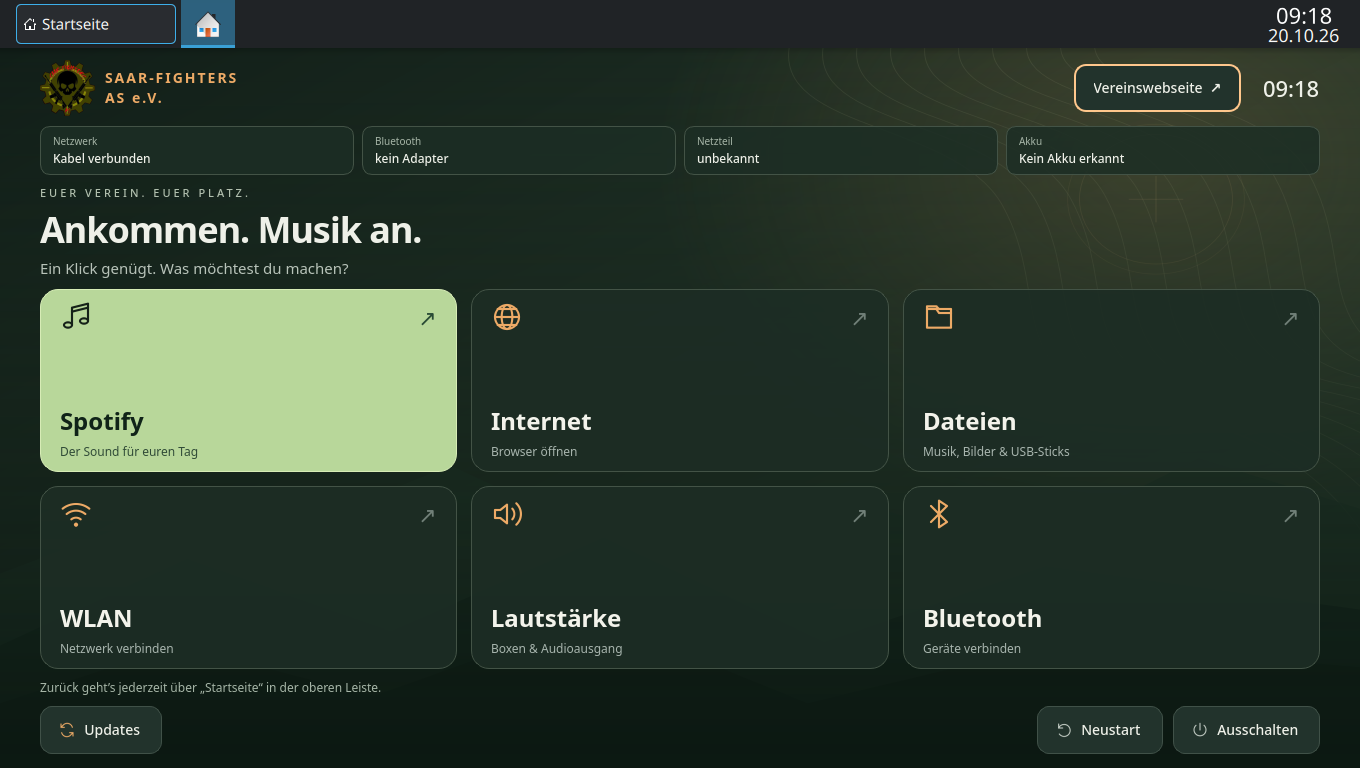
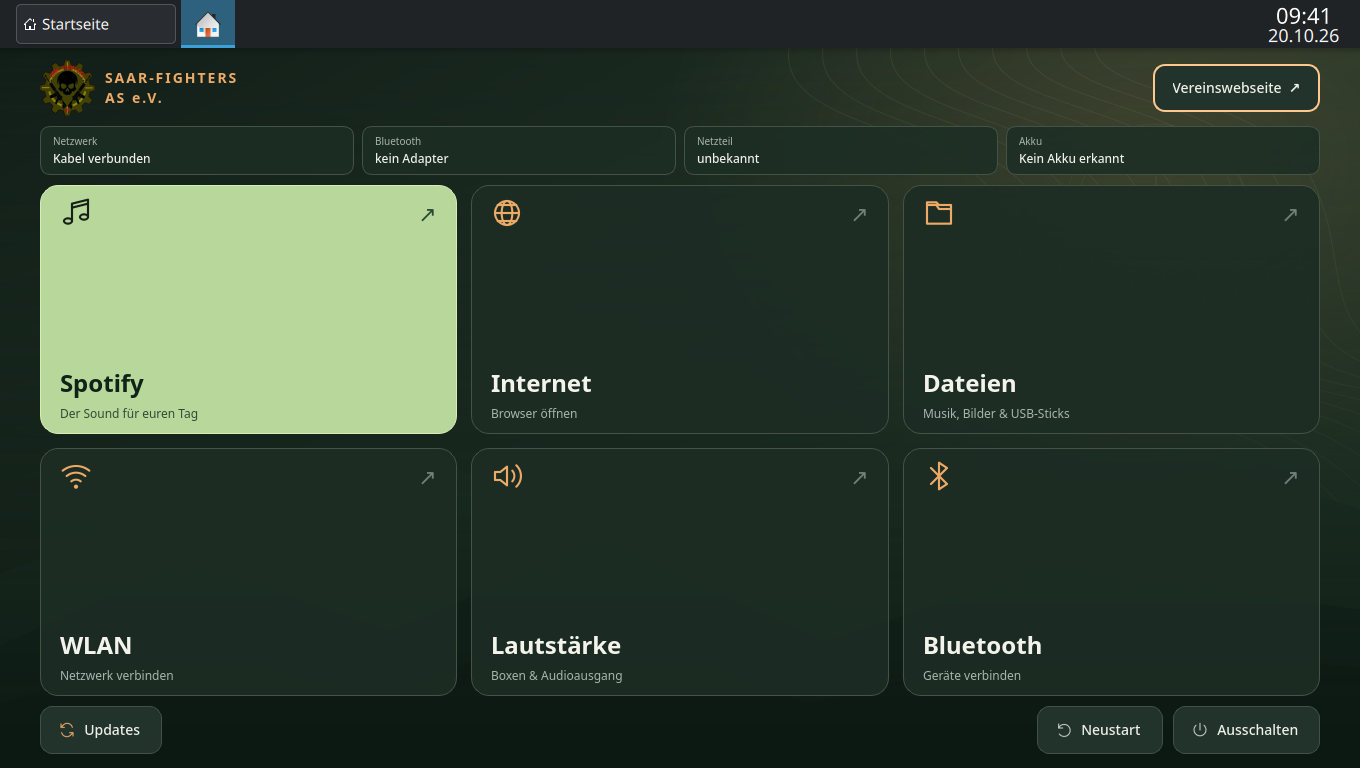
Simplify home screen by removing slogans, navigation hint and duplicate clock

diff --git a/app/main.py b/app/main.py
@@ -6,7 +6,7 @@ from pathlib import Path
 import shutil
 import sys
 
-from PySide6.QtCore import QDateTime, QLibraryInfo, QLocale, QProcess, QTranslator, Qt, QTimer, QSize, QRectF
+from PySide6.QtCore import QLibraryInfo, QLocale, QProcess, QTranslator, Qt, QTimer, QSize, QRectF
 from PySide6.QtGui import QIcon, QPainter, QPixmap
 from PySide6.QtNetwork import QLocalServer, QLocalSocket
 from PySide6.QtSvg import QSvgRenderer
@@ -191,10 +191,6 @@ class Home(QWidget):
         self.website_button.setAccessibleName("Vereinswebseite öffnen")
         self.website_button.clicked.connect(lambda: self.launch("club"))
         header.addWidget(self.website_button)
-        header.addSpacing(12)
-        self.clock = QLabel()
-        self.clock.setStyleSheet("font-size: 22px; font-weight: 600;")
-        header.addWidget(self.clock)
         layout.addLayout(header)
 
         self.device_client = DeviceClient(self, preview)
@@ -219,20 +215,9 @@ class Home(QWidget):
         self.device_client.status_changed.connect(self.update_status)
         QTimer.singleShot(800, self.device_client.refresh_status)
 
-        hero = QVBoxLayout()
-        hero.setSpacing(4)
-        self.eyebrow = QLabel("EUER VEREIN. EUER PLATZ.")
-        self.eyebrow.setStyleSheet("color: #b1bfae; font-size: 11px; letter-spacing: 3px; font-weight: 600;")
-        hero.addWidget(self.eyebrow)
-        self.headline = QLabel("Ankommen. Musik an.")
-        self.headline.setStyleSheet("font-size: 42px; font-weight: 800; letter-spacing: -1px;")
-        hero.addWidget(self.headline)
-        self.description = QLabel("Ein Klick genügt. Was möchtest du machen?")
-        self.description.setStyleSheet("font-size: 15px; color: #b8c3b9;")
-        hero.addWidget(self.description)
         if preview:
-            self.description.setText("Vorschau · Statusanzeigen mit Beispieldaten")
-        layout.addLayout(hero)
+            layout.addWidget(label("Vorschau · Statusanzeigen mit Beispieldaten",
+                                   "font-size: 15px; color: #b8c3b9;"))
 
         grid = QGridLayout()
         grid.setSpacing(14)
@@ -250,7 +235,8 @@ class Home(QWidget):
             self.tiles[action] = tile
             grid.addWidget(tile, i // 3, i % 3)
         layout.addLayout(grid, 1)
-        self.feedback = QLabel("Zurück geht’s jederzeit über „Startseite“ in der oberen Leiste.")
+        self.feedback = QLabel()
+        self.feedback.hide()
         self.feedback.setStyleSheet("color: #a6b5a7; font-size: 12px;")
         self.feedback.setWordWrap(True)
         layout.addWidget(self.feedback)
@@ -266,10 +252,6 @@ class Home(QWidget):
             button.clicked.connect(lambda checked=False, a=action: self.power(a))
             footer.addWidget(button)
         layout.addLayout(footer)
-        self.clock_timer = QTimer(self)
-        self.clock_timer.timeout.connect(self.tick)
-        self.clock_timer.start(1000)
-        self.tick()
 
     def paintEvent(self, event):
         painter = QPainter(self)
@@ -277,16 +259,8 @@ class Home(QWidget):
         painter.end()
 
     def resizeEvent(self, event):
-        compact = self.height() < 700
-        self.eyebrow.setVisible(not compact)
-        self.description.setVisible(not compact or self.preview)
-        self.headline.setStyleSheet(
-            f"font-size: {26 if compact else 36}px; font-weight: 800; letter-spacing: -1px;")
         self.layout().setContentsMargins(24 if self.width() < 1000 else 40, 12, 24 if self.width() < 1000 else 40, 14)
         super().resizeEvent(event)
-
-    def tick(self):
-        self.clock.setText(QDateTime.currentDateTime().toString("HH:mm"))
 
     def update_status(self, status):
         values = status_labels(status)
@@ -318,19 +292,23 @@ class Home(QWidget):
             return
         if self.preview:
             title = "Vereinswebseite" if action == "club" else self.tiles[action].accessibleName()
-            self.feedback.setText(f"Vorschau: „{title}“ gewählt. Es wird keine App gestartet.")
+            self.set_feedback(f"Vorschau: „{title}“ gewählt. Es wird keine App gestartet.")
             return
         command = self.command_for(action)
         if not shutil.which(command[0]):
-            self.feedback.setText("Diese Anwendung fehlt. Bitte die Vereinsadministration kontaktieren.")
+            self.set_feedback("Diese Anwendung fehlt. Bitte die Vereinsadministration kontaktieren.")
             return
         process = QProcess(self)
         # GUI applications must not inherit cloud-init's or a terminal's session env.
         self.processes.append(process)
-        process.errorOccurred.connect(lambda _: self.feedback.setText("Die Anwendung konnte nicht gestartet werden."))
+        process.errorOccurred.connect(lambda _: self.set_feedback("Die Anwendung konnte nicht gestartet werden."))
         process.finished.connect(lambda code, status, p=process: self.app_finished(p, code, status))
         process.start(command[0], command[1:])
-        self.feedback.setText("App wird geöffnet. Über „Startseite“ kommst du wieder hierher.")
+        self.set_feedback("")
+
+    def set_feedback(self, text):
+        self.feedback.setText(text)
+        self.feedback.setVisible(bool(text))
 
     def open_device(self, action):
         sheet = {"wifi": WifiSheet, "bluetooth": BluetoothSheet, "sound": AudioSheet}[action](
@@ -340,7 +318,7 @@ class Home(QWidget):
 
     def app_finished(self, process, code, status):
         if code != 0:
-            self.feedback.setText("Die App wurde mit einem Fehler beendet. Bitte erneut versuchen.")
+            self.set_feedback("Die App wurde mit einem Fehler beendet. Bitte erneut versuchen.")
         if process in self.processes:
             self.processes.remove(process)
         process.deleteLater()
@@ -364,13 +342,13 @@ class Home(QWidget):
             return
         self.last_action = action
         if self.preview:
-            self.feedback.setText(f"Vorschau: {title} bestätigt. Dieser Rechner bleibt unverändert.")
+            self.set_feedback(f"Vorschau: {title} bestätigt. Dieser Rechner bleibt unverändert.")
             return
         process = QProcess(self)
         self.processes.append(process)
-        process.finished.connect(lambda code, status: self.feedback.setText(
+        process.finished.connect(lambda code, status: self.set_feedback(
             "Aktion läuft …" if code == 0 else "Aktion nicht möglich. Bitte laufende Updates prüfen."))
-        process.errorOccurred.connect(lambda _: self.feedback.setText("Aktion konnte nicht ausgeführt werden."))
+        process.errorOccurred.connect(lambda _: self.set_feedback("Aktion konnte nicht ausgeführt werden."))
         process.start("systemctl", [action])
 
     def reveal(self):
